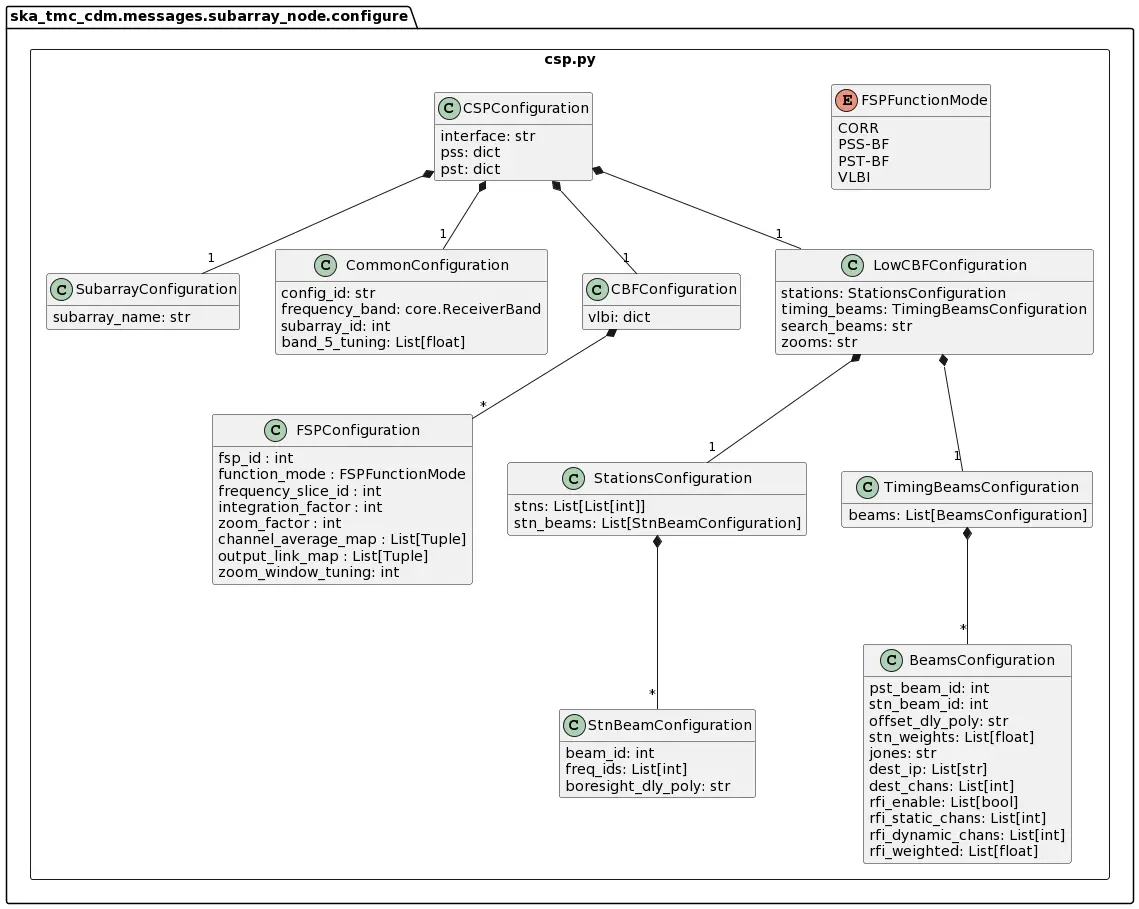
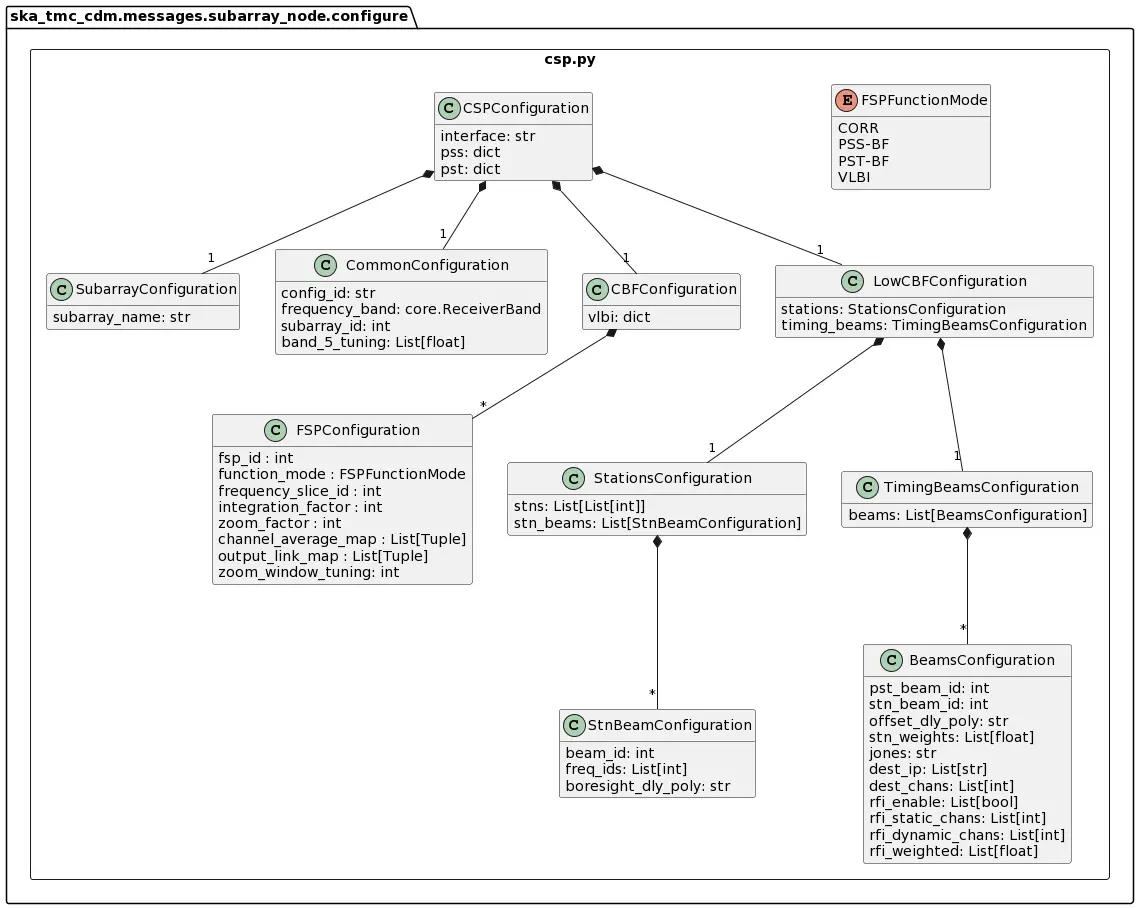
NAK-296 Removed unnecessary attributes

Changed region(s): [[0.676, 0.2772, 0.9526, 0.4004]]

diff --git a/tests/unit/ska_tmc_cdm/messages/subarray_node/configure/test_csp.py b/tests/unit/ska_tmc_cdm/messages/subarray_node/configure/test_csp.py
@@ -266,13 +266,6 @@ def test_csp_configuration_equals():
                     rfi_weighted=0.87,
                 )
             ),
-            search_beams="tbd",
-            zooms="tbd",
-            scan_id=987654321,
-            unix_epoch_seconds=1616971738,
-            timestamp_ns=987654321,
-            packet_offset=123456789,
-            scan_seconds=30,
         ),
     )
 
@@ -613,13 +606,6 @@ def test_low_cbf_configuration_equals():
                 rfi_weighted=0.87,
             )
         ),
-        search_beams="tbd",
-        zooms="tbd",
-        scan_id=987654321,
-        unix_epoch_seconds=1616971738,
-        timestamp_ns=987654321,
-        packet_offset=123456789,
-        scan_seconds=30,
     )
     config2 = LowCBFConfiguration(
         stations=StationsConfiguration(
@@ -645,16 +631,18 @@ def test_low_cbf_configuration_equals():
                 rfi_weighted=0.87,
             )
         ),
-        search_beams="tbd",
-        zooms="tbd",
-        scan_id=987654321,
-        unix_epoch_seconds=1616971738,
-        timestamp_ns=987654321,
-        packet_offset=123456789,
-        scan_seconds=30,
     )
     assert config1 == config2
-    assert config1 != LowCBFConfiguration(zooms="")
+    assert config1 != LowCBFConfiguration(
+        stations=StationsConfiguration(
+            stns=[[1, 0], [2, 0], [3, 0], [4, 0]],
+            stn_beams=StnBeamConfiguration(
+                beam_id=1,
+                freq_ids=[64, 65, 66, 67, 68, 68, 70, 71],
+                boresight_dly_poly="url",
+            ),
+        )
+    )
 
 
 def test_low_cbf_configuration_not_equal_to_other_objects():
@@ -687,12 +675,5 @@ def test_low_cbf_configuration_not_equal_to_other_objects():
                 rfi_weighted=0.87,
             )
         ),
-        search_beams="tbd",
-        zooms="tbd",
-        scan_id=987654321,
-        unix_epoch_seconds=1616971738,
-        timestamp_ns=987654321,
-        packet_offset=123456789,
-        scan_seconds=30,
     )
     assert config != 1

diff --git a/src/ska_tmc_cdm/messages/subarray_node/configure/csp.py b/src/ska_tmc_cdm/messages/subarray_node/configure/csp.py
@@ -332,45 +332,21 @@ class LowCBFConfiguration:
         self,
         stations: StationsConfiguration = None,
         timing_beams: TimingBeamsConfiguration = None,
-        search_beams: str = None,
-        zooms: str = None,
-        scan_id: int = None,
-        unix_epoch_seconds: int = None,
-        timestamp_ns: int = None,
-        packet_offset: int = None,
-        scan_seconds: int = None,
     ) -> object:
         """
         Create a new LowCBFConfiguration.
 
         :param stations: stations
         :param timing_beams: PST beams subarray list
-        :param search_beams: PSS parameter list
-        :param zooms: zoom correlation parameter
         """
         self.stations = stations
         self.timing_beams = timing_beams
-        self.search_beams = search_beams
-        self.zooms = zooms
-        self.scan_id = scan_id
-        self.unix_epoch_seconds = unix_epoch_seconds
-        self.timestamp_ns = timestamp_ns
-        self.packet_offset = packet_offset
-        self.scan_seconds = scan_seconds
 
     def __eq__(self, other):
         if not isinstance(other, LowCBFConfiguration):
             return False
         return (
-            self.stations == other.stations
-            and self.timing_beams == other.timing_beams
-            and self.search_beams == other.search_beams
-            and self.zooms == other.zooms
-            and self.scan_id == other.scan_id
-            and self.unix_epoch_seconds == other.unix_epoch_seconds
-            and self.timestamp_ns == other.timestamp_ns
-            and self.packet_offset == other.packet_offset
-            and self.scan_seconds == other.scan_seconds
+            self.stations == other.stations and self.timing_beams == other.timing_beams
         )
 
 

diff --git a/src/ska_tmc_cdm/schemas/subarray_node/configure/csp.py b/src/ska_tmc_cdm/schemas/subarray_node/configure/csp.py
@@ -410,13 +410,6 @@ class LowCBFConfigurationSchema(Schema):
     timing_beams = fields.Nested(
         TimingBeamsConfigurationSchema, data_key="timing_beams"
     )
-    search_beams = fields.String(data_key="search_beams")
-    zooms = fields.String()
-    scan_id = fields.Integer()
-    unix_epoch_seconds = fields.Integer()
-    timestamp_ns = fields.Integer()
-    packet_offset = fields.Integer()
-    scan_seconds = fields.Integer()
 
     @post_load
     def create(self, data, **_):  # pylint: disable=no-self-use
@@ -429,24 +422,10 @@ class LowCBFConfigurationSchema(Schema):
         """
         stations = data.get("stations", None)
         timing_beams = data.get("timing_beams", None)
-        search_beams = data.get("search_beams", None)
-        zooms = data.get("zooms", None)
-        scan_id = data.get("scan_id", None)
-        unix_epoch_seconds = data.get("unix_epoch_seconds", None)
-        timestamp_ns = data.get("timestamp_ns", None)
-        packet_offset = data.get("packet_offset", None)
-        scan_seconds = data.get("scan_seconds", None)
 
         return LowCBFConfiguration(
             stations=stations,
             timing_beams=timing_beams,
-            search_beams=search_beams,
-            zooms=zooms,
-            scan_id=scan_id,
-            unix_epoch_seconds=unix_epoch_seconds,
-            timestamp_ns=timestamp_ns,
-            packet_offset=packet_offset,
-            scan_seconds=scan_seconds,
         )
 
     @post_dump

diff --git a/tests/unit/ska_tmc_cdm/messages/subarray_node/test_configure.py b/tests/unit/ska_tmc_cdm/messages/subarray_node/test_configure.py
@@ -139,13 +139,6 @@ CONFIGURE_OBJECT_ARGS_PI7 = dict(
                         )
                     }
                 ),
-                "search_beams": "tbd",
-                "zooms": "tbd",
-                "scan_id": 987654321,
-                "unix_epoch_seconds": 1616971738,
-                "timestamp_ns": 987654321,
-                "packet_offset": 123456789,
-                "scan_seconds": 30,
             }
         ),
     ),
@@ -430,13 +423,6 @@ def test_configure_request_eq_for_low_pi17():
     low_cbf = {
         "station": StationsConfiguration(station),
         "timing_beams": TimingBeamsConfiguration(timing_beams),
-        "search_beams": "tbd",
-        "zooms": "tbd",
-        "scan_id": 987654321,
-        "unix_epoch_seconds": 1616971738,
-        "timestamp_ns": 987654321,
-        "packet_offset": 123456789,
-        "scan_seconds": 30,
     }
 
     request_1 = ConfigureRequest(
@@ -515,13 +501,6 @@ def test_configure_request_is_not_equal_to_other_objects_for_low_pi17():
                         rfi_weighted=0.87,
                     )
                 ),
-                search_beams="tbd",
-                zooms="tbd",
-                scan_id=987654321,
-                unix_epoch_seconds=1616971738,
-                timestamp_ns=987654321,
-                packet_offset=123456789,
-                scan_seconds=30,
             ),
         ),
     )

diff --git a/tests/unit/ska_tmc_cdm/schemas/subarray_node/configure/test_csp.py b/tests/unit/ska_tmc_cdm/schemas/subarray_node/configure/test_csp.py
@@ -238,14 +238,7 @@ VALID_CSP_JSON_PI17 = """{
             "rfi_weighted": 0.87
           }
         ]
-      },
-      "search_beams": "tbd",
-      "zooms": "tbd",
-      "scan_id":98,
-      "unix_epoch_seconds":16,
-      "timestamp_ns":98,
-      "packet_offset":12,
-      "scan_seconds": 30
+      }
     }
   }"""
 
@@ -483,13 +476,6 @@ def test_marshall_low_cbf_configuration_does_not_modify_original():
                 )
             ]
         ),
-        search_beams="tbd",
-        zooms="tbd",
-        scan_id=987654321,
-        unix_epoch_seconds=1616971738,
-        timestamp_ns=987654321,
-        packet_offset=123456789,
-        scan_seconds=30,
     )
     copied = copy.deepcopy(config)
 
@@ -497,6 +483,4 @@ def test_marshall_low_cbf_configuration_does_not_modify_original():
 
     assert config.stations == copied.stations
     assert config.timing_beams == copied.timing_beams
-    assert config.search_beams == copied.search_beams
-    assert config.zooms == copied.zooms
     assert config == copied

diff --git a/tests/unit/ska_tmc_cdm/schemas/subarray_node/test_configure.py b/tests/unit/ska_tmc_cdm/schemas/subarray_node/test_configure.py
@@ -337,9 +337,7 @@ VALID_LOW_CONFIGURE_JSON_PI17 = """
             "rfi_weighted": 0.87
           }
         ]
-      },
-      "search_beams": "tbd",
-      "zooms": "tbd"
+      }
       }
     }
 }
@@ -401,8 +399,6 @@ VALID_LOW_CONFIGURE_OBJECT_PI17 = ConfigureRequest(
                     )
                 ]
             ),
-            search_beams="tbd",
-            zooms="tbd",
         ),
     ),
 )
@@ -753,8 +749,6 @@ def test_low_configure_configuration_not_equals():
                         )
                     ]
                 ),
-                search_beams="tbd",
-                zooms="tbd",
             ),
         ),
     )
@@ -814,8 +808,6 @@ def test_low_configure_configuration_not_equals():
                         )
                     ]
                 ),
-                search_beams="tbd",
-                zooms="tbd",
             ),
         ),
     )

diff --git a/docs/src/developer/subarraynode/subarraynode.rst b/docs/src/developer/subarraynode/subarraynode.rst
@@ -216,9 +216,7 @@ of a full CDM JSON object, the elements this maps to are:
             "rfi_weighted": 0.87
           }
         ]
-      },
-      "search_beams": "tbd",
-      "zooms": "tbd"
+      }
     }
   },
     ...
@@ -615,9 +613,7 @@ Example configuration JSON for LOW
             "rfi_weighted": 0.87
           }
         ]
-      },
-      "search_beams": "tbd",
-      "zooms": "tbd"
+      }
     }
   },
   "tmc": {
